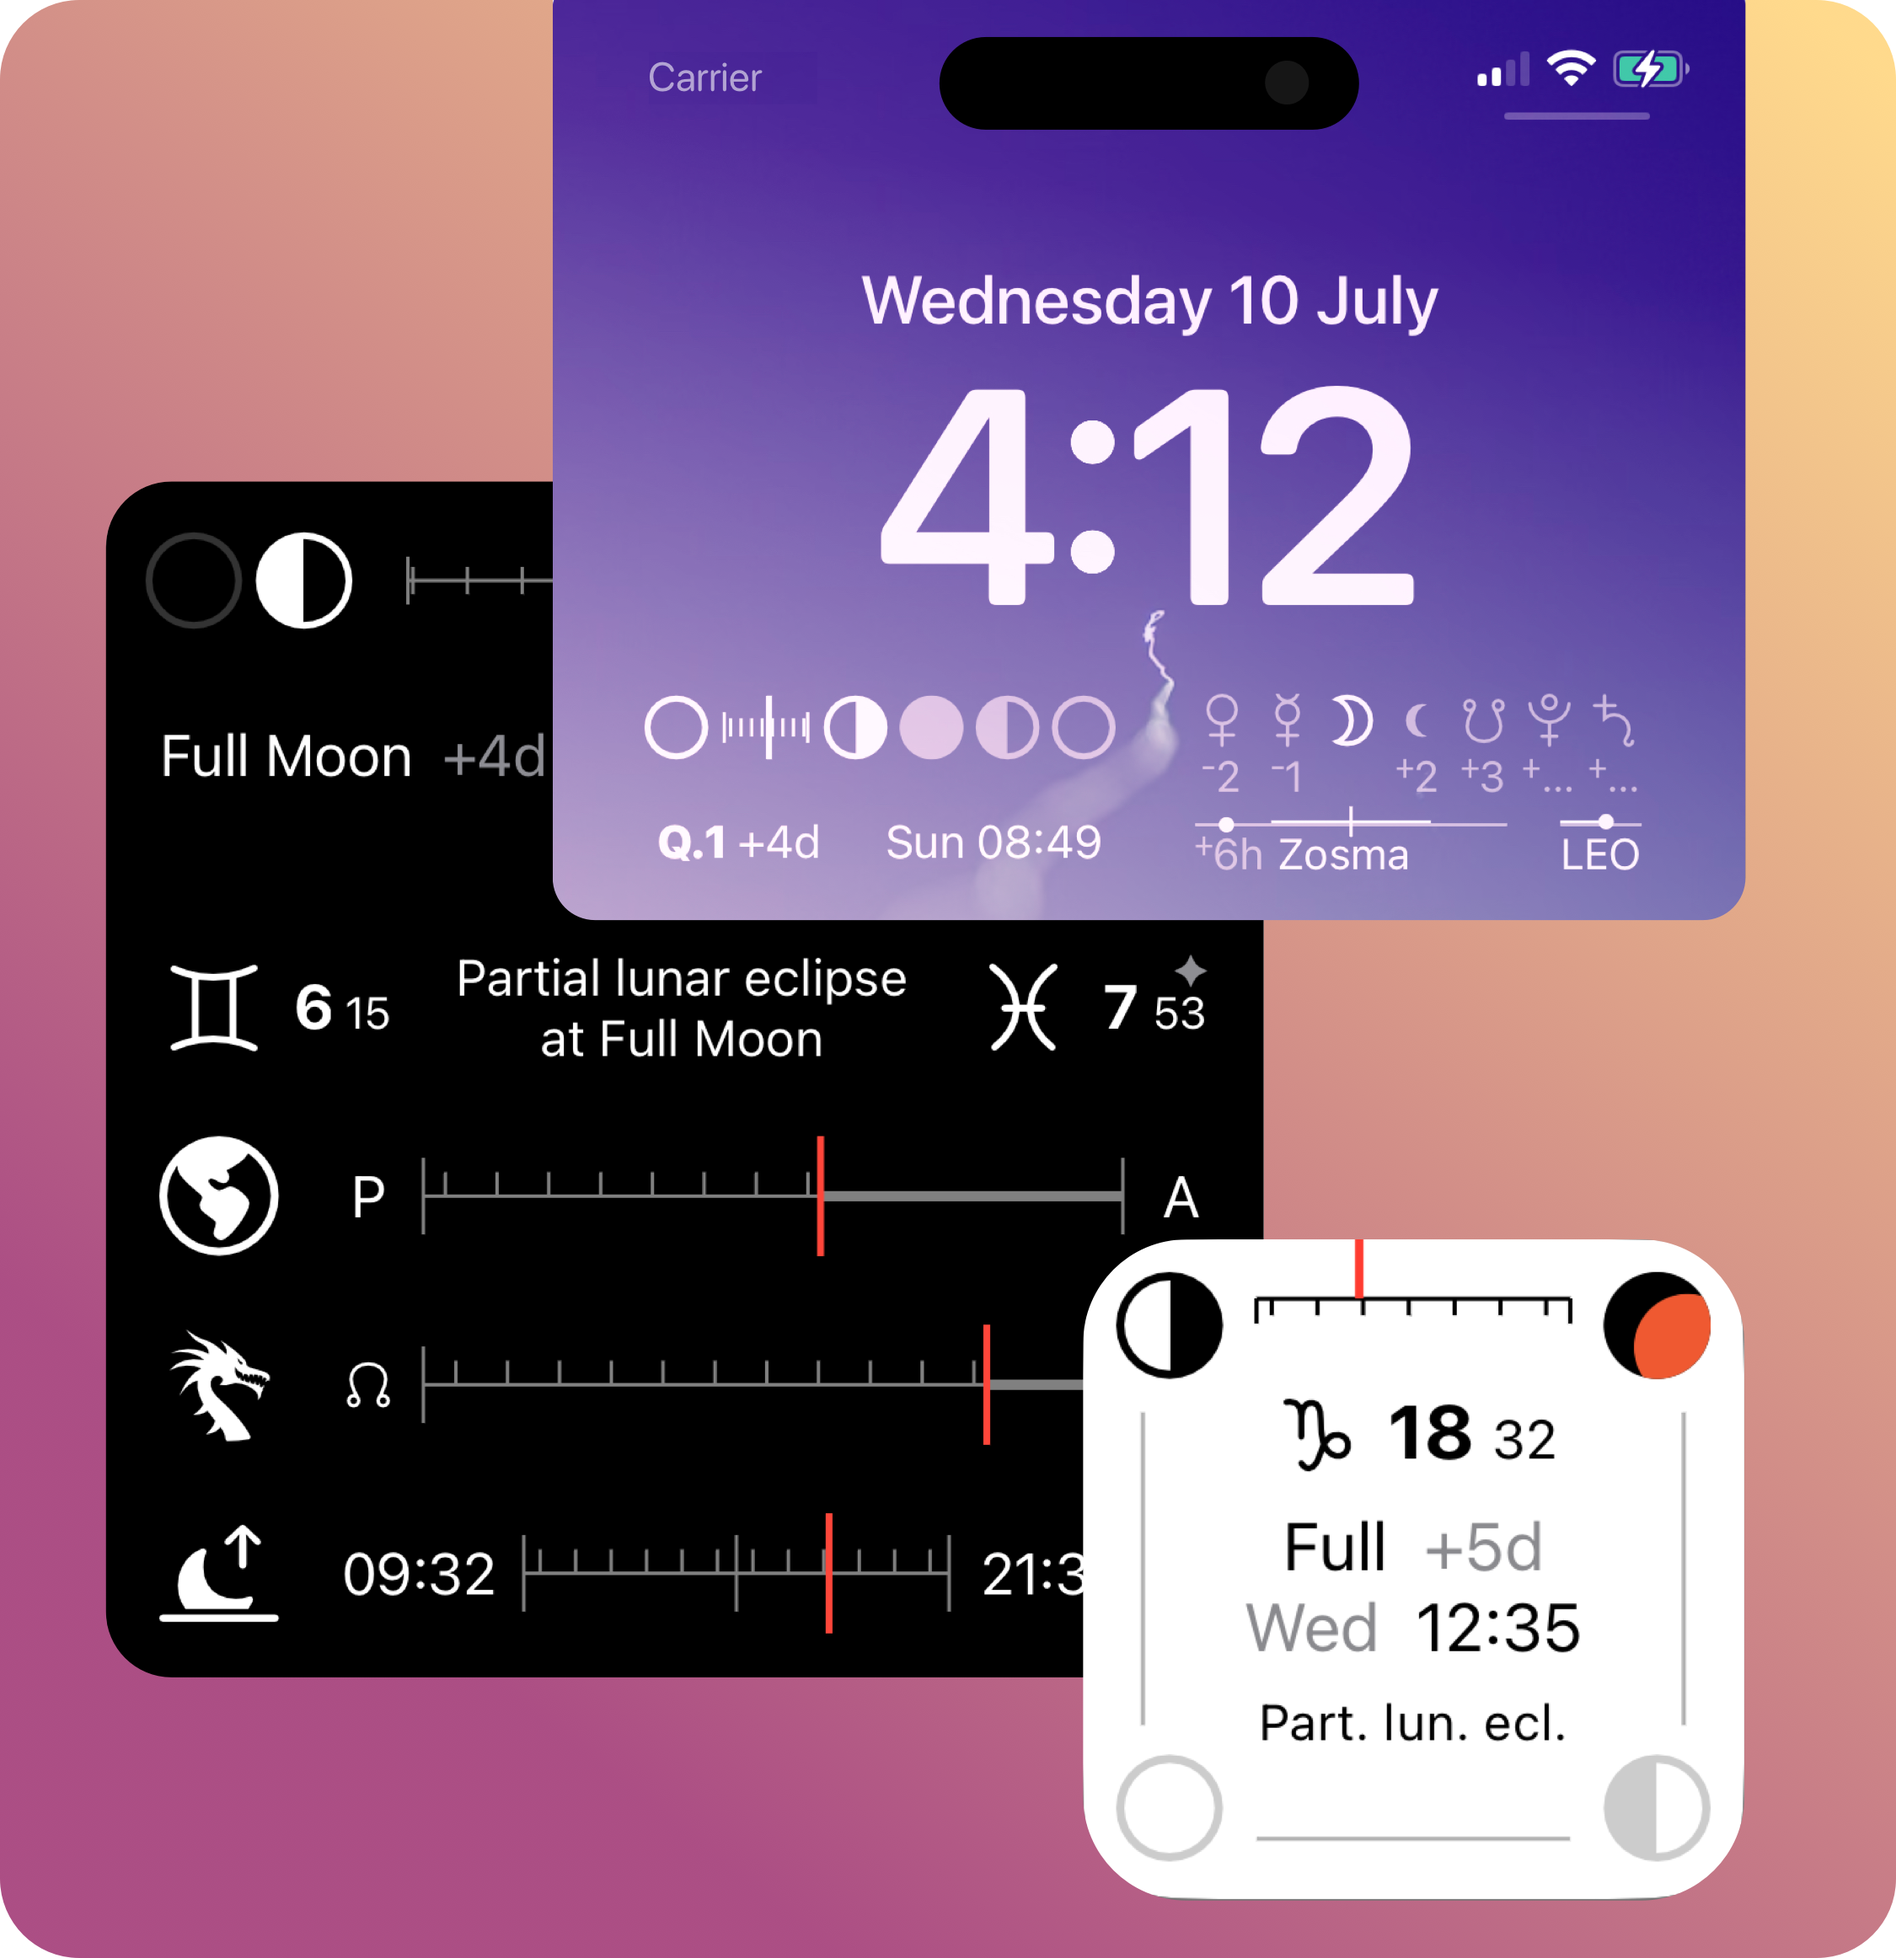
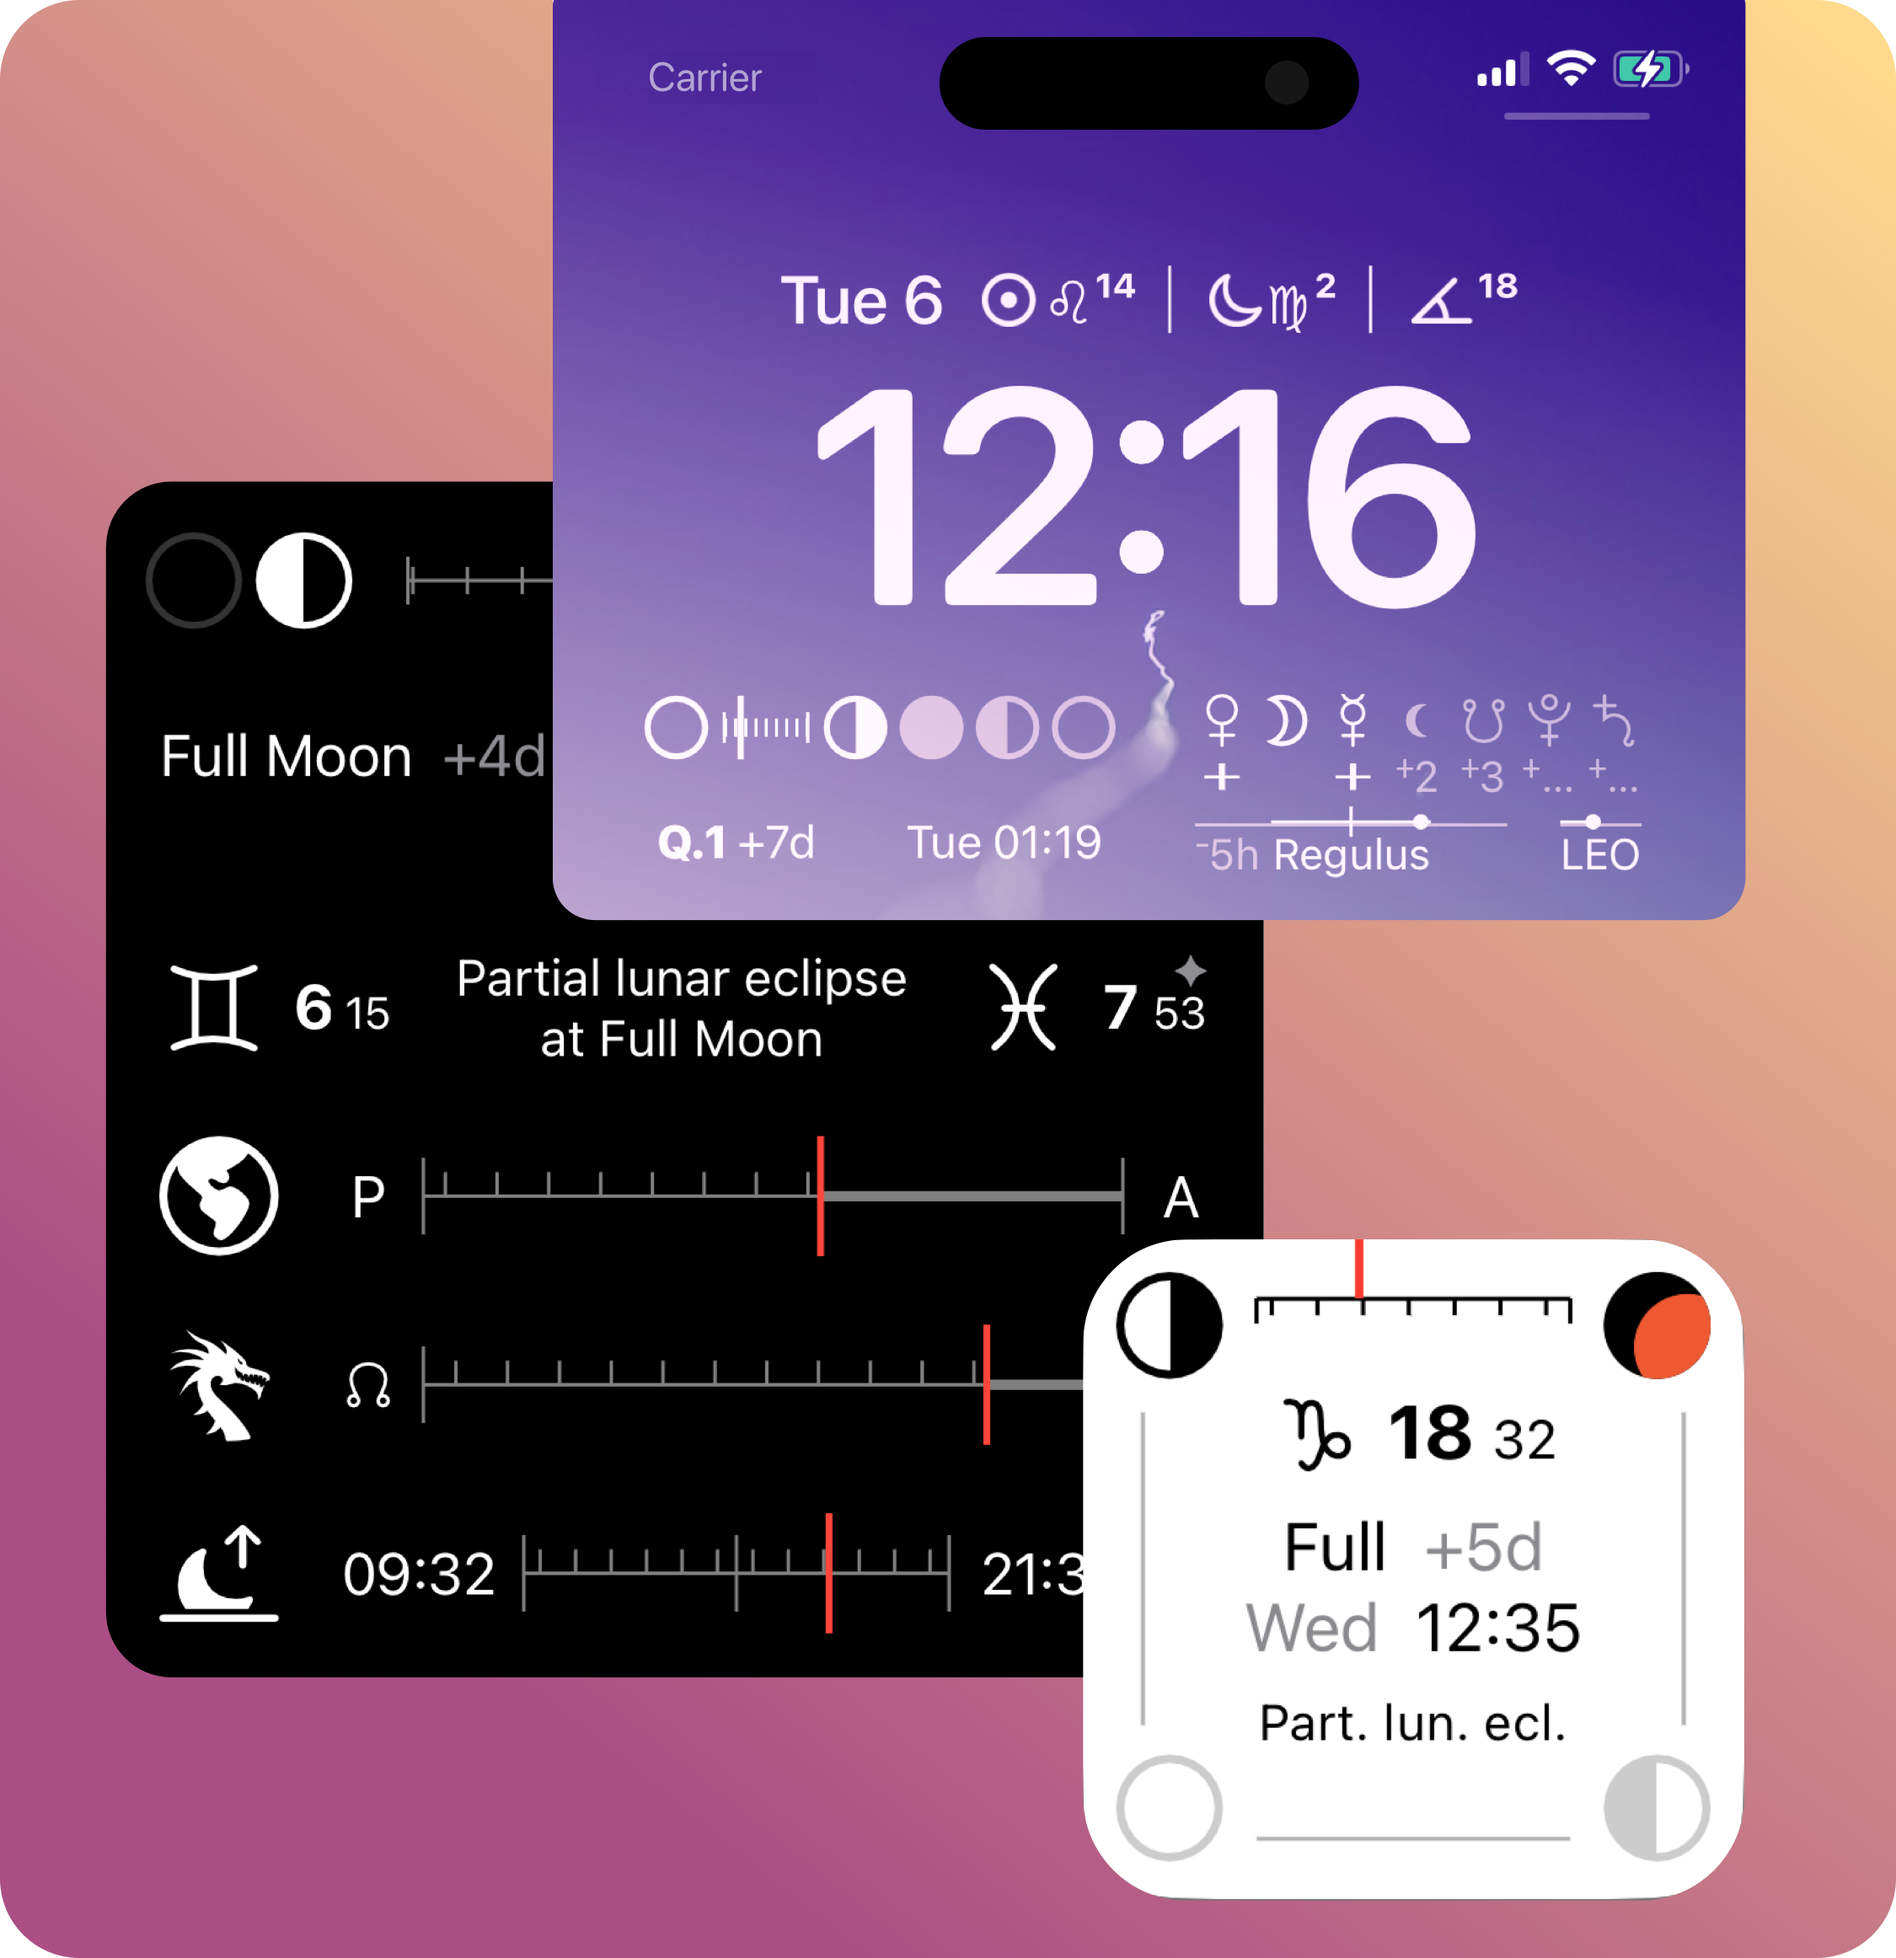
edits

diff --git a/collections/_documentation/moon-phase-and-cycle-widget.md b/collections/_documentation/moon-phase-and-cycle-widget.md
@@ -1,10 +1,10 @@
 ---
 layout: post
 date: 2024-07-15 12:00:00 +1000
-modified: 2024-07-15 12:00:00 +1000
+modified: 2024-08-07 12:00:00 +1000
 order: 1
-title: Current Moon phase and cycle widget for your Lock Screen and Home Screen
-description: The “Moon Cycle” widget can be added to any screen on iPhone or iPad, including Lock Screen. The widget presents current Moon phase within its overall lunation cycle.
+title: Current Moon phase and cycle widgets for your Lock Screen and Home Screen
+description: The “Moon Cycle” widgets can be added to any screen on iPhone or iPad, including Lock Screen. The widgets present current Moon phase within its overall lunation cycle.
 comments: true
 # Extra info for structured data
 schema:
@@ -31,7 +31,7 @@ This Lock Screen and Home Screen family of widgets covers current lunation, Moon
     </div>
     <div class="col-6">
       <div class="row text-photo-caption-serif">
-        The widget family consists of two Lock screen widgets and several sizes of Home Screen widgets. Both dark and light schemes are supported. The widgets shown illustrate upcoming partial lunar eclipse.
+        The widget family consists of <b>three Lock Screen widgets</b> and <b>several sizes of Home Screen widgets</b>. Both dark and light schemes are supported. The widgets shown illustrate upcoming partial lunar eclipse.
       </div>
     </div>
   </div>
@@ -42,17 +42,36 @@ This Lock Screen and Home Screen family of widgets covers current lunation, Moon
 
 The Lock Screen widgets are always visible, just tap the screen. The widgets offer the following information in a concise visual format:
 
-* Moon phase
-* Moon lunation timeline
-* any solar and lunar eclipses that may take place during lunation, including eclipse types
-* Moon applying and separating conjunctions with planets and points of a chart
-* future and past conjunctions with planets
-* Moon transit through constellations
-* Moon conjunctions with fixed stars in the vicinity of the ecliptic
+* Sun and Moon zodiac sign and degree, tropical or sidereal
+* Solar-lunar arc, ie the angle between the Sun and the Moon
+* Past and upcoming Moon phase
+* Complete Moon lunation timeline, from last New Moon to next New Moon
+* Solar and lunar eclipses that may take place during current lunation, including eclipse types
+* Moon‘s current applying and separating conjunctions with planets and points of a chart
+* Future and past conjunctions with planets
+* Moon‘s current transit through constellations
+* Moon‘s current conjunctions with fixed stars in the vicinity of the ecliptic
 
-<img loading="lazy" src="/images/docs/moon-cycle-widget-lock-screen-01.png" srcset="/images/docs/moon-cycle-widget-lock-screen-01.png 1x, /images/docs/moon-cycle-widget-lock-screen-01@2x.png 2x" alt="Moon phase and lunation widgets for the Lock Screen.">
+<img loading="lazy" src="/images/docs/moon-cycle-widget-lock-screen-01.png" srcset="/images/docs/moon-cycle-widget-lock-screen-01.png 1x, /images/docs/moon-cycle-widget-lock-screen-01@2x.png 2x" alt="Sun & Moon zodiac sign and degree, Moon phase and lunation widgets for iOS or iPadOS Lock Screen.">
 
-Lock Screen with both widgets added. Peruse [Apple online guide](https://support.apple.com/en-us/118610) on how to add widgets to the Lock Screen.
+### 1\. Lock Screen widget — Luminaries
+
+Lock Screen with all three widgets added. Peruse [Apple online guide](https://support.apple.com/en-us/118610) on how to add widgets to the Lock Screen.
+
+<img loading="lazy" src="/images/docs/moon-cycle-widget-lock-screen-04.png" srcset="/images/docs/moon-cycle-widget-lock-screen-04.png 1x, /images/docs/moon-cycle-widget-lock-screen-04@2x.png 2x" alt="Lock Screen rectangluar accessory widget displaying Sun and Moon zodiac signs, degrees and a solar-lunar arc which is the angle between the Sun and the Moon.">
+
+The super compact ”above the clock” rectangluar accessory widget displaying current values for:
+
+* Zodiac sign and degree of the Sun
+* Zodiac sign and degree of the Moon
+* Angle between the Moon and the Sun, aka the solar-lunar arc
+
+There are **two versions** of the widget, install the one that matches your preferred sodiac system:
+
+* Tropical zodiac system
+* Sidereal zodiac system
+
+### 2\. Lock Screen widget — Moon phase
 
 <img loading="lazy" src="/images/docs/moon-cycle-widget-lock-screen-02.png" srcset="/images/docs/moon-cycle-widget-lock-screen-02.png 1x, /images/docs/moon-cycle-widget-lock-screen-02@2x.png 2x" alt="Moon phase  widget displaying partial lunar eclipse and total solar eclipse.">
 
@@ -61,6 +80,8 @@ Moon phase widget displaying partial lunar eclipse and total solar eclipse.
 The widget highlights current intermediary phase and shows the countdown to the next phase.
 
 Solar and lunar eclipses are indicated by corresponding icons and a short legend. Scroll to the bottom of this guide for the full explanation of eclipses.
+
+### 3\. Lock Screen widget — Moon conjuncitons
 
 <img loading="lazy" src="/images/docs/moon-cycle-widget-lock-screen-03.png" srcset="/images/docs/moon-cycle-widget-lock-screen-03.png 1x, /images/docs/moon-cycle-widget-lock-screen-03@2x.png 2x" alt="Widget displaying conjunctions of the Moon with planets, fixed stars and Moon constellation transit.">
 

diff --git a/pages/documentation.md b/pages/documentation.md
@@ -1,9 +1,9 @@
 ---
 layout: documentation
-title: How-To
+title: Guides
 permalink: /documentation/
 date: 2019-02-24 12:00:00 +1000
-modified: 2019-02-24 12:00:00 +1000
+modified: 2024-08-07 12:00:00 +1000
 description: Series of articles on how to perform precise astrological calculations, build charts for any date and natal charts, find astrological aspects, transits and retrograde planets.
 image: /images/summary-cards/time-nomad-card.png
 list_title: How-to articles

diff --git a/pages/blog.md b/pages/blog.md
@@ -3,7 +3,7 @@ layout: blog
 title: Blog
 permalink: /posts/
 date: 2018-09-01 12:00:00 +1000
-modified: 2020-09-22 12:00:00 +1000
+modified: 2024-08-07 12:00:00 +1000
 description: Astrological news and an ongoing astrology course on the foundations of astrology and metaphysics.
 image: /images/summary-cards/time-nomad-card.png
 list_title: Recent stories

diff --git a/index.md b/index.md
@@ -18,7 +18,7 @@ seo:
   type: MobileApplication
   applicationCategory: Lifestyle
   datePublished: 2016-03-24
-  dateModified: 2020-07-23
+  dateModified: 2024-08-07
 ---
 
 # Astrologer’s companion app for iPhone & iPad
